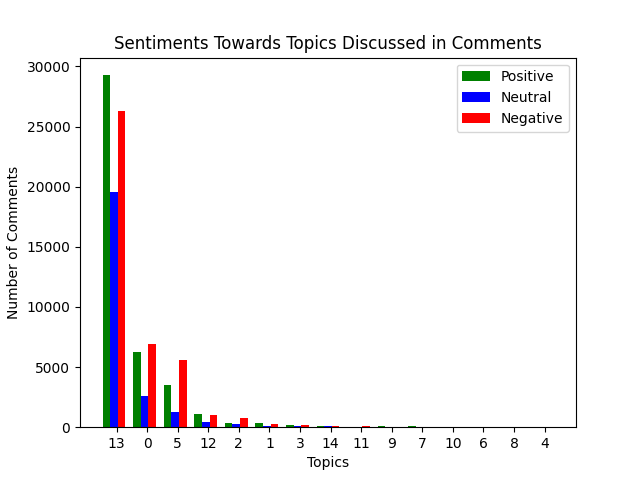
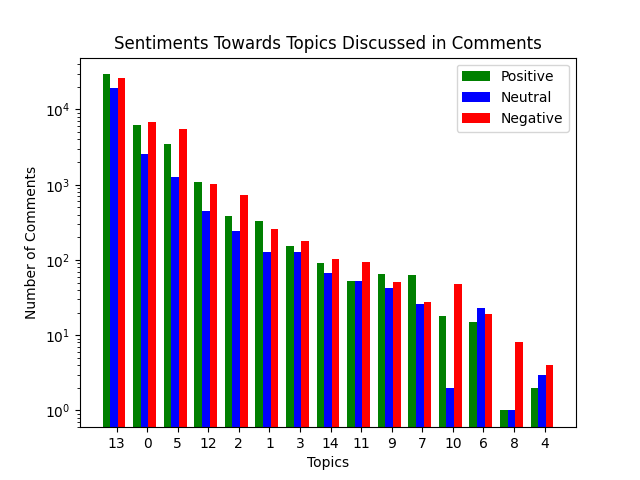
Changed graphs y axis to log scale

diff --git a/topic_modelling_sentiment_analysis/topic_sentiment_analysis.py b/topic_modelling_sentiment_analysis/topic_sentiment_analysis.py
@@ -7,7 +7,7 @@ import numpy as np
 import pandas as pd
 
 from definitions import ROOT_DIR
-from topic_modelling.user_profile_topic_modelling import get_unique_authors, filter_authors
+from topic_modelling_sentiment_analysis.user_profile_topic_modelling import get_unique_authors, filter_authors
 
 
 def get_author_topic_distribution(df):
@@ -63,7 +63,7 @@ def save_comments_stats(topic_comments_dict, filename):
 
 
 def plot_distribution(data, title, xlabel, ylabel, file_name):
-    data.plot(x=xlabel, y=ylabel, kind="bar", title=title, xlabel=xlabel, ylabel=ylabel, legend=False, rot=0)
+    data.plot(x=xlabel, y=ylabel, kind="bar", title=title, xlabel=xlabel, ylabel=ylabel, legend=False, rot=0, logy=True)
     plt.savefig(file_name)
     plt.clf()
     return
@@ -72,9 +72,9 @@ def plot_distribution(data, title, xlabel, ylabel, file_name):
 def plot_sent_distribution(x, y_pos, y_neu, y_neg, title, xlabel, ylabel, file_name):
     width = 0.25
     x_axis = np.arange(len(x))
-    plt.bar(x_axis - width, y_pos, width=width, label="Positive", color="green")
-    plt.bar(x_axis, y_neu, width=width, label="Neutral", color="blue")
-    plt.bar(x_axis + width, y_neg, width=width, label="Negative", color="red")
+    plt.bar(x_axis - width, y_pos, width=width, label="Positive", color="green", log=True)
+    plt.bar(x_axis, y_neu, width=width, label="Neutral", color="blue", log=True)
+    plt.bar(x_axis + width, y_neg, width=width, label="Negative", color="red", log=True)
     plt.xticks(x_axis + width / 3, x)
     plt.title(title)
     plt.xlabel(xlabel)
@@ -160,6 +160,6 @@ if __name__ == "__main__":
 
     # write dataframes to files
     csv_folder = "csv_data"
-    topic_authors_df.to_csv(os.path.join(ROOT_DIR, csv_folder, "topic_authors_distribution.csv", index=False))
-    topic_comments_df.to_csv(os.path.join(ROOT_DIR, csv_folder, "topic_comments_distribution.csv", index=False))
-    author_topic_sentiment_df.to_csv(os.path.join(ROOT_DIR, csv_folder, "author_topic_sentiment.csv", index=False))
+    topic_authors_df.to_csv(os.path.join(ROOT_DIR, csv_folder, "topic_authors_distribution.csv"), index=False)
+    topic_comments_df.to_csv(os.path.join(ROOT_DIR, csv_folder, "topic_comments_distribution.csv"), index=False)
+    author_topic_sentiment_df.to_csv(os.path.join(ROOT_DIR, csv_folder, "author_topic_sentiment.csv"), index=False)

diff --git a/user_social_network/bipartite_network_analysis.py b/user_social_network/bipartite_network_analysis.py
@@ -5,7 +5,7 @@ import pandas as pd
 
 from created_network import get_graph
 from definitions import ROOT_DIR
-from topic_modelling.sentiment_analysis import get_polarity
+from topic_modelling_sentiment_analysis.sentiment_analysis import get_polarity
 
 
 def get_top_n_degree_centralities(G, n):
